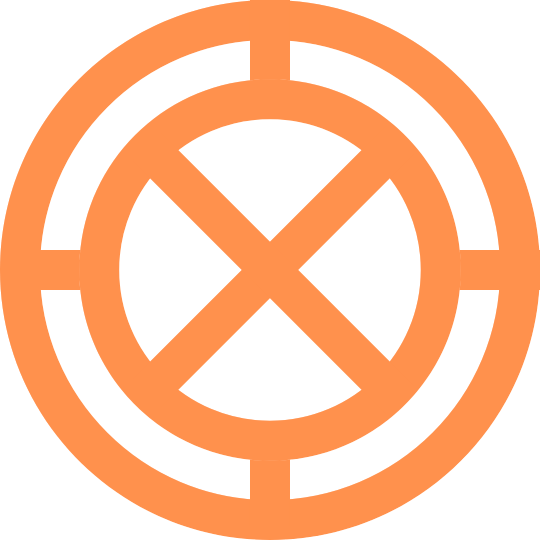
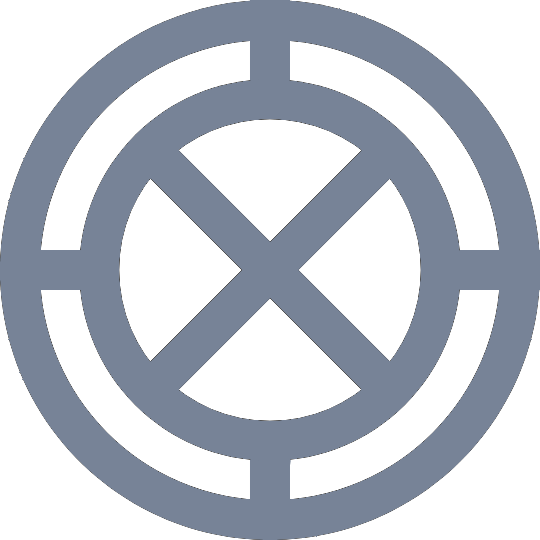
planets dignities colors added

diff --git a/src/app/components/charts/AstroChart.tsx b/src/app/components/charts/AstroChart.tsx
@@ -12,6 +12,7 @@ import {
   getDegreeAndSign,
   getDegreesInsideASign,
   getPlanetImage,
+  getPlanetImagePath,
   getSign,
   mod360,
   signsGlpyphs,
@@ -370,9 +371,16 @@ const AstroChart: React.FC<AstroChartProps & { props: AstroChartProps["props"] &
   ): React.ReactNode {
     const { label, longitude, planetType, isAntiscion, isRetrograde, isTransit } = options;
     const degree = getDegreeAndSign(longitude, true);
+
     return (
       <div className="flex flex-row items-center gap-1">
-        {planetType && getPlanetImage(planetType, { isAntiscion, isRetrograde, size: 15, isTransit })}
+        {planetType && getPlanetImage(planetType, {
+          isAntiscion,
+          isRetrograde,
+          isTransit,
+          longitude,
+          size: 15,
+        })}
         <span>{label}: {formatSignColor(degree)}</span>
       </div>
     );
@@ -1742,8 +1750,10 @@ const AstroChart: React.FC<AstroChartProps & { props: AstroChartProps["props"] &
           .attr("stroke-width", 1);
   
         // 6) desenha o ícone do planeta
-        const iconSrc = `/planets/${planet.type}${planet.isRetrograde ? "-rx" : ""
-          }.png`;
+        const iconSrc = getPlanetImagePath(planet.type, {
+          longitude: planet.longitude,
+          isRetrograde: planet.isRetrograde,
+        });
   
         baseGroup
           .attr("data-name", planet.type)
@@ -1853,13 +1863,15 @@ const AstroChart: React.FC<AstroChartProps & { props: AstroChartProps["props"] &
             .attr("y1", yAnt1)
             .attr("x2", xAnt2)
             .attr("y2", yAnt2)
-            .attr("stroke", "#ff914d") // antiscion color
+            .attr("stroke", "#778397") // antiscion color
             .attr("stroke-width", 1);
 
           // 6) desenha o ícone do planeta
           const iconAntSize = 13; // px
-          const iconAntSrc = `/planets/antiscion/${planet.type}${planet.isRetrograde ? "-rx" : ""
-            }.png`;
+          const iconAntSrc = getPlanetImagePath(planet.type, {
+            isAntiscion: true,
+            isRetrograde: planet.isRetrograde,
+          });
 
           baseGroup
             .append("image")
@@ -2096,7 +2108,7 @@ const AstroChart: React.FC<AstroChartProps & { props: AstroChartProps["props"] &
               .attr("y1", y1)
               .attr("x2", x2)
               .attr("y2", y2)
-              .attr("stroke", "#ff914d") // antiscion color
+              .attr("stroke", "#778397") // antiscion color
               .attr("stroke-width", 1);
   
             // 6) desenha o ícone do planeta
@@ -2317,8 +2329,10 @@ const AstroChart: React.FC<AstroChartProps & { props: AstroChartProps["props"] &
           .attr("stroke-width", 1);
   
         // 6) desenha o ícone do planeta
-        const iconSrc = `/planets/transits/${planet.type}${planet.isRetrograde ? "-rx" : ""
-          }.png`;
+        const iconSrc = getPlanetImagePath(planet.type, {
+          isRetrograde: planet.isRetrograde,
+          isTransit: true,
+        });
   
         baseGroup
           .attr("data-name", planet.type)
@@ -2420,8 +2434,10 @@ const AstroChart: React.FC<AstroChartProps & { props: AstroChartProps["props"] &
   
           // 6) desenha o ícone do planeta
           const iconSize = 13; // px
-          const iconSrc = `/planets/${planet.type}${planet.isRetrograde ? "-rx" : ""
-            }.png`;
+          const iconSrc = getPlanetImagePath(planet.type, {
+            longitude: planet.longitude,
+            isRetrograde: planet.isRetrograde,
+          });
   
           baseGroup
             .append("image")
@@ -2531,12 +2547,14 @@ const AstroChart: React.FC<AstroChartProps & { props: AstroChartProps["props"] &
               .attr("y1", yAnt1)
               .attr("x2", xAnt2)
               .attr("y2", yAnt2)
-              .attr("stroke", "#ff914d") // antiscion color
+              .attr("stroke", "#778397") // antiscion color
               .attr("stroke-width", 1);
 
             // 6) desenha o ícone do planeta
-            const iconAntSrc = `/planets/antiscion/${planet.type}${planet.isRetrograde ? "-rx" : ""
-              }.png`;
+            const iconAntSrc = getPlanetImagePath(planet.type, {
+              isAntiscion: true,
+              isRetrograde: planet.isRetrograde,
+            });
 
             baseGroup
               .append("image")
@@ -2773,7 +2791,7 @@ const AstroChart: React.FC<AstroChartProps & { props: AstroChartProps["props"] &
               .attr("y1", y1)
               .attr("x2", x2)
               .attr("y2", y2)
-              .attr("stroke", "#ff914d") // antiscion color
+              .attr("stroke", "#778397") // antiscion color
               .attr("stroke-width", 1);
   
             // 6) desenha o ícone do planeta

diff --git a/src/app/utils/chartUtils.tsx b/src/app/utils/chartUtils.tsx
@@ -202,40 +202,82 @@ export const getSignColor = (signGlyph: string): string => {
   return "black";
 };
 
+export type EssentialDignityFolder = "domicile" | "exaltation" | "decline" | "exile";
+
+const ESSENTIAL_DIGNITIES: Partial<Record<PlanetType, {
+  domicile: number[];
+  exaltation: number[];
+  decline: number[];
+  exile: number[];
+}>> = {
+  sun: { domicile: [4], exaltation: [0], decline: [6], exile: [10] },
+  moon: { domicile: [3], exaltation: [1], decline: [7], exile: [9] },
+  mercury: { domicile: [2, 5], exaltation: [5], decline: [11], exile: [8, 11] },
+  venus: { domicile: [1, 6], exaltation: [11], decline: [5], exile: [7, 0] },
+  mars: { domicile: [0, 7], exaltation: [9], decline: [3], exile: [6, 1] },
+  jupiter: { domicile: [8, 11], exaltation: [3], decline: [9], exile: [2, 5] },
+  saturn: { domicile: [9, 10], exaltation: [6], decline: [0], exile: [3, 4] },
+};
+
+export function getEssentialDignityFolder(
+  planet: PlanetType,
+  longitude?: number
+): EssentialDignityFolder | undefined {
+  const dignities = ESSENTIAL_DIGNITIES[planet];
+  if (!dignities || longitude === undefined || !Number.isFinite(longitude)) {
+    return undefined;
+  }
+
+  const normalizedLongitude = ((longitude % 360) + 360) % 360;
+  const signIndex = Math.floor(normalizedLongitude / 30);
+
+  // Domicile outranks exaltation; exile outranks fall when a sign has both.
+  if (dignities.domicile.includes(signIndex)) return "domicile";
+  if (dignities.exaltation.includes(signIndex)) return "exaltation";
+  if (dignities.exile.includes(signIndex)) return "exile";
+  if (dignities.decline.includes(signIndex)) return "decline";
+
+  return undefined;
+}
+
 interface ImgOptions {
   size?: number;
   isAntiscion?: boolean;
   isRetrograde?: boolean;
   isTransit?: boolean;
+  longitude?: number;
+}
+
+export function getPlanetImagePath(
+  planet: PlanetType,
+  options: ImgOptions = {}
+): string {
+  let subfolder = "";
+
+  if (options.isAntiscion) {
+    subfolder = "/antiscion";
+  } else if (options.isTransit) {
+    subfolder = "/transits";
+  } else {
+    const dignityFolder = getEssentialDignityFolder(planet, options.longitude);
+    if (dignityFolder) subfolder = `/${dignityFolder}`;
+  }
+
+  return `/planets${subfolder}/${planet}${options.isRetrograde ? "-rx" : ""}.png`;
 }
 
 export function getPlanetImage(
   planet: PlanetType,
-  options: ImgOptions = {
-    size: 15,
-    isAntiscion: false,
-    isRetrograde: false,
-    isTransit: false
-  }
+  options: ImgOptions = {}
 ): React.ReactNode {
-  const folder = "planets";
-  const { size, isAntiscion, isRetrograde, isTransit } = options;
-  //let path = folder;
-   let path = "/" + folder; // <- era só `folder`
-
-  if(isAntiscion)
-    path += "/antiscion";
-  else if(isTransit)
-    path += "/transits";
-
-  path += `/${planet}${isRetrograde ? "-rx" : ""}.png`
+  const path = getPlanetImagePath(planet, options);
 
   return (
     <Image
       alt="planet"
       src={path}
-      width={size ?? 15}
-      height={size ?? 15}
+      width={options.size ?? 15}
+      height={options.size ?? 15}
       unoptimized
     />
   );

diff --git a/src/app/components/aspect-table/AspectsTable.tsx b/src/app/components/aspect-table/AspectsTable.tsx
@@ -210,7 +210,8 @@ export default function AspectsTable({
           {getPlanetImage(element.name as PlanetType, {
             isAntiscion: element.isAntiscion,
             isRetrograde: element.isRetrograde,
-            isTransit: element.isTransit
+            isTransit: element.isTransit,
+            longitude: element.longitude,
           })}
           {element.isFromOuterChart ? `(${outerInitial})` : ""}
         </div>

diff --git a/src/app/globals.css b/src/app/globals.css
@@ -69,7 +69,7 @@ progress {
 }
 
 .antiscion {
-  @apply text-[#ff914d];
+  @apply text-[#778397];
 }
 
 /* .default-btn {
